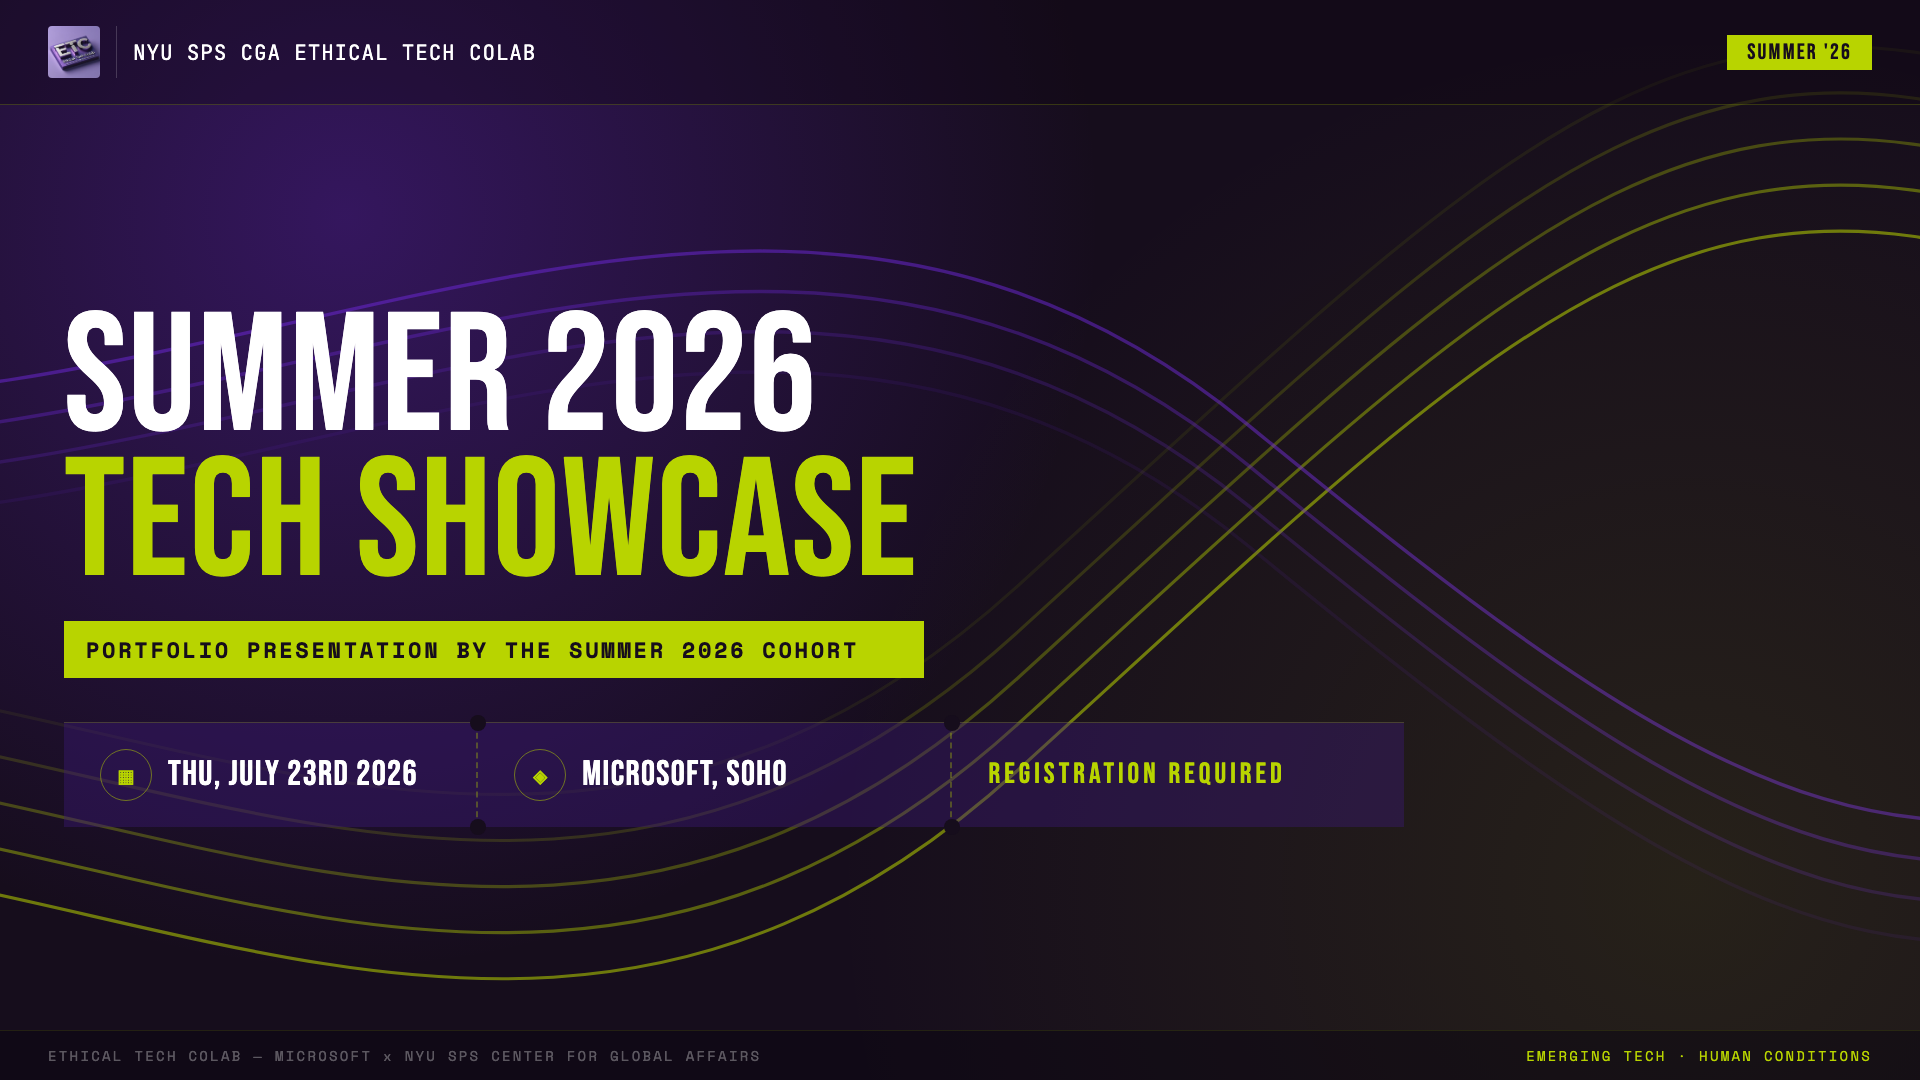
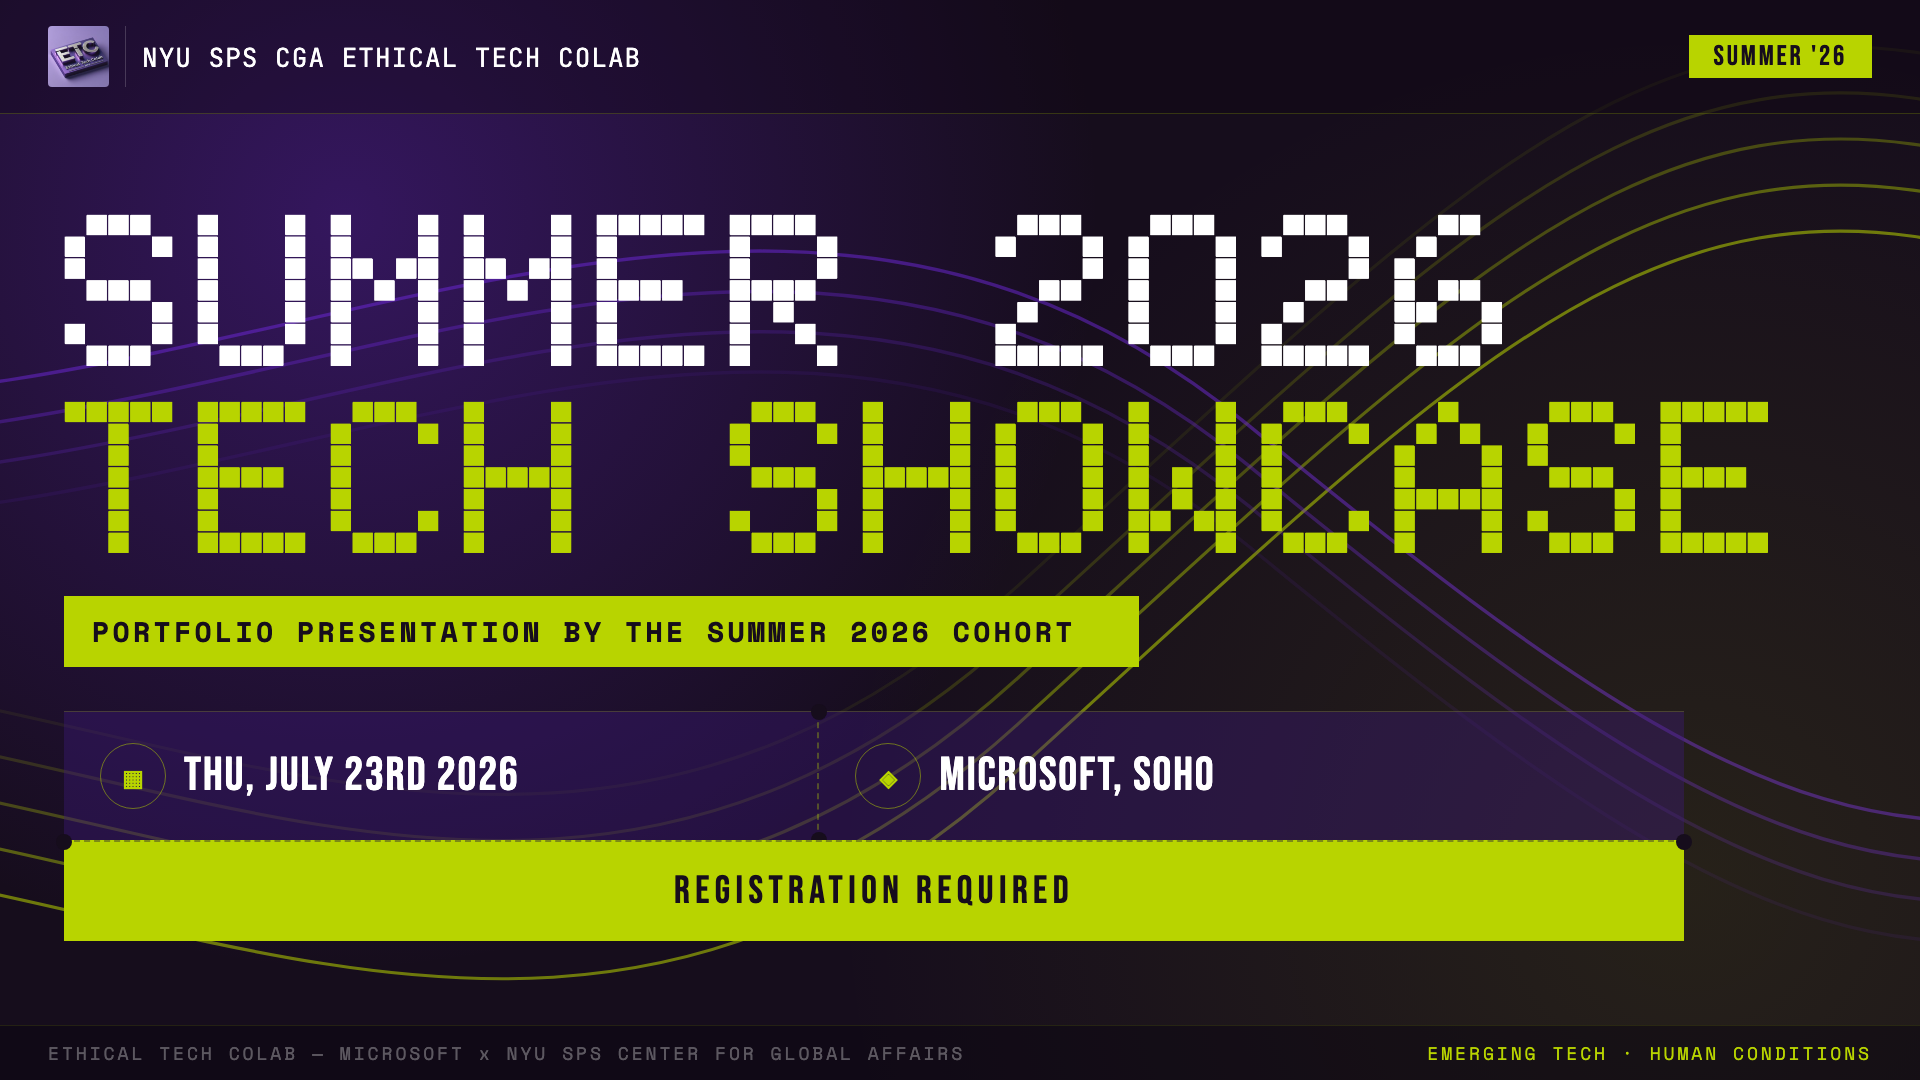
Split ticket stub into details/registration blocks, port Partiful design to LinkedIn
- Larger text, Doto bold dot-matrix headline font, 2O26 digit swap, and a
  two-tone ticket stub (details block + lime registration block) on Partiful
- Apply the same design changes proportionally to LinkedIn-Graphics.html
- Regenerate both PNG exports to match

diff --git a/LinkedIn-Graphics.html b/LinkedIn-Graphics.html
@@ -10,6 +10,11 @@
   font-weight:400;font-style:normal;font-display:swap;
 }
 @font-face{
+  font-family:'Doto Local';
[1 lines of base64/hex data omitted]
+  font-weight:400 900;font-style:normal;font-display:swap;
+}
+@font-face{
   font-family:'JetBrains Mono Local';
[1 lines of base64/hex data omitted]
   font-weight:400;font-style:normal;font-display:swap;
@@ -82,13 +87,13 @@ html,body{
   flex-shrink:0;
 }
 .brand{display:flex;align-items:center;gap:16px;}
-.brand img{height:52px;width:auto;border-radius:4px;display:block;}
+.brand img{height:61px;width:auto;border-radius:4px;display:block;}
 .brand-div{width:1px;align-self:stretch;background:rgba(255,255,255,0.18);}
-.brand-tag{font-size:21px;letter-spacing:0.04em;color:var(--lime);white-space:nowrap;}
+.brand-tag{font-size:26px;letter-spacing:0.04em;color:var(--lime);white-space:nowrap;}
 .season{
   background:var(--lime);color:var(--bg3);
-  font-family:'Bebas Neue Local',sans-serif;font-size:22px;
-  letter-spacing:0.1em;padding:4px 20px;flex-shrink:0;
+  font-family:'Bebas Neue Local',sans-serif;font-size:28px;
+  letter-spacing:0.1em;padding:5px 25px;flex-shrink:0;
 }
 
 /* ── HERO ── */
@@ -98,8 +103,9 @@ html,body{
   padding:0 64px;
 }
 .headline{
-  font-family:'Bebas Neue Local',sans-serif;
-  font-size:168px;
+  font-family:'Doto Local',sans-serif;
+  font-weight:900;
+  font-size:218px;
   line-height:0.86;letter-spacing:0.01em;
 }
 .headline .accent{color:var(--lime);}
@@ -107,24 +113,29 @@ html,body{
   display:inline-block;
   background:var(--lime);color:var(--bg3);
   font-family:'Space Mono Local',monospace;font-weight:700;
-  font-size:22px;
+  font-size:28px;
   letter-spacing:0.12em;text-transform:uppercase;
-  padding:12px 22px;
-  max-width:860px;
+  padding:15px 28px;
+  max-width:1075px;
 }
 
-/* ── TICKET STUB ── */
-.stub{
+/* ── STUB WRAP (details + ticket, flush together) ── */
+.stub-wrap{
+  display:flex;flex-direction:column;
+  max-width:1620px;
+  margin-top:20px;
+}
+
+/* ── DETAILS BLOCK (date + location) ── */
+.details{
   position:relative;z-index:3;flex-shrink:0;
-  display:grid;grid-template-columns:1fr 1.15fr 1.1fr;
+  display:grid;grid-template-columns:1fr 1.15fr;
   background:var(--stub);
   border-top:1px solid var(--hair);
-  margin-top:20px;
-  max-width:1340px;
 }
 .stub-seg{
-  display:flex;align-items:center;gap:16px;
-  padding:26px 36px;
+  display:flex;align-items:center;gap:18px;
+  padding:31px 36px;
   position:relative;
 }
 .stub-seg + .stub-seg{border-left:2px dashed rgba(184,212,0,0.32);}
@@ -136,28 +147,36 @@ html,body{
 .stub-seg + .stub-seg::before{top:-8px;}
 .stub-seg + .stub-seg::after{bottom:-8px;}
 .stub-icon{
-  width:52px;height:52px;flex-shrink:0;
+  width:66px;height:66px;flex-shrink:0;
   border:1px solid rgba(184,212,0,0.5);border-radius:50%;
   display:flex;align-items:center;justify-content:center;
-  font-size:24px;color:var(--lime);
+  font-size:30px;color:var(--lime);
 }
 .stub-main{
   font-family:'Bebas Neue Local',sans-serif;
-  font-size:35px;letter-spacing:0.04em;color:var(--white);
+  font-size:47px;letter-spacing:0.04em;color:var(--white);
   line-height:1.1;
 }
-.stub-sub{
-  font-size:16px;letter-spacing:0.05em;color:var(--ink);
-  margin-top:4px;
+
+/* ── TICKET STUB (registration) ── */
+.ticket{
+  position:relative;z-index:3;flex-shrink:0;
+  display:flex;align-items:center;justify-content:center;
+  background:var(--lime);
+  padding:26px 36px;
+  border-top:2px dashed rgba(36,26,58,0.4);
 }
-.stub-admit{
-  flex-direction:column;align-items:flex-start;justify-content:center;gap:3px;
+.ticket::before,
+.ticket::after{
+  content:'';position:absolute;top:-8px;width:16px;height:16px;border-radius:50%;
+  background:var(--bg3);
 }
+.ticket::before{left:-8px;}
+.ticket::after{right:-8px;}
 .admit-badge{
-  font-family:'Bebas Neue Local',sans-serif;font-size:29px;
-  color:var(--lime);letter-spacing:0.14em;white-space:nowrap;
+  font-family:'Bebas Neue Local',sans-serif;font-size:39px;
+  color:var(--bg3);letter-spacing:0.14em;white-space:nowrap;
 }
-.admit-sub{font-size:14px;letter-spacing:0.16em;color:var(--ink-dim);text-transform:uppercase;}
 
 /* ── FOOTER ── */
 .foot{
@@ -167,7 +186,7 @@ html,body{
   border-top:1px solid rgba(184,212,0,0.12);
   background:rgba(13,7,18,0.55);
 }
-.foot span{font-size:14px;letter-spacing:0.16em;color:rgba(255,255,255,0.32);}
+.foot span{font-size:18px;letter-spacing:0.16em;color:rgba(255,255,255,0.32);}
 .foot .hi{color:var(--lime);}
 </style>
 </head>
@@ -202,23 +221,25 @@ html,body{
   </div>
 
   <div class="hero">
-    <div class="headline">SUMMER 2026<br><span class="accent">TECH SHOWCASE</span></div>
+    <div class="headline">SUMMER 2O26<br><span class="accent">TECH SHOWCASE</span></div>
     <div class="tag-highlight">Portfolio Presentation by the Summer 2026 Cohort</div>
 
-    <div class="stub">
-      <div class="stub-seg">
-        <div class="stub-icon">&#9638;</div>
-        <div>
-          <div class="stub-main">THU, JULY 23RD 2026</div>
+    <div class="stub-wrap">
+      <div class="details">
+        <div class="stub-seg">
+          <div class="stub-icon">&#9638;</div>
+          <div>
+            <div class="stub-main">THU, JULY 23RD 2026</div>
+          </div>
+        </div>
+        <div class="stub-seg">
+          <div class="stub-icon">&#9672;</div>
+          <div>
+            <div class="stub-main">MICROSOFT, SOHO</div>
+          </div>
         </div>
       </div>
-      <div class="stub-seg">
-        <div class="stub-icon">&#9672;</div>
-        <div>
-          <div class="stub-main">MICROSOFT, SOHO</div>
-        </div>
-      </div>
-      <div class="stub-seg stub-admit">
+      <div class="ticket">
         <div class="admit-badge">REGISTRATION REQUIRED</div>
       </div>
     </div>

diff --git a/Partiful-Graphics.html b/Partiful-Graphics.html
@@ -100,16 +100,21 @@ html,body{
   max-width:700px;
 }
 
-/* ── TICKET STUB (vertical stack) ── */
-.stub{
+/* ── STUB WRAP (details + ticket, flush together) ── */
+.stub-wrap{
+  display:flex;flex-direction:column;
+  width:100%;
+  max-width:1088px;
+  margin-top:16px;
+}
+
+/* ── DETAILS BLOCK (date + location) ── */
+.details{
   position:relative;z-index:3;flex-shrink:0;
   display:flex;flex-direction:column;
   background:var(--stub);
   border-top:1px solid var(--hair);
-  border-bottom:1px solid var(--hair);
-  margin-top:16px;
   width:100%;
-  max-width:1088px;
 }
 .stub-seg{
   display:flex;align-items:center;gap:16px;
@@ -135,10 +140,27 @@ html,body{
   font-size:31px;letter-spacing:0.04em;color:var(--white);
   line-height:1.1;white-space:nowrap;
 }
-.stub-admit{gap:0;}
+
+/* ── TICKET STUB (registration) ── */
+.ticket{
+  position:relative;z-index:3;flex-shrink:0;
+  display:flex;align-items:center;justify-content:center;
+  background:var(--lime);
+  width:100%;
+  max-width:1088px;
+  padding:22px 26px;
+  border-top:2px dashed rgba(36,26,58,0.4);
+}
+.ticket::before,
+.ticket::after{
+  content:'';position:absolute;top:-8px;width:16px;height:16px;border-radius:50%;
+  background:var(--bg3);
+}
+.ticket::before{left:-8px;}
+.ticket::after{right:-8px;}
 .admit-badge{
   font-family:'Bebas Neue Local',sans-serif;font-size:28px;
-  color:var(--lime);letter-spacing:0.12em;white-space:nowrap;
+  color:var(--bg3);letter-spacing:0.12em;white-space:nowrap;
 }
 
 /* ── CORNER MARKS ── */
@@ -188,16 +210,18 @@ html,body{
     <div class="headline">SUMMER 2O26<br><span class="accent">TECH SHOWCASE</span></div>
     <div class="tag-highlight">Portfolio Presentation by the Summer 2026 Cohort</div>
 
-    <div class="stub">
-      <div class="stub-seg">
-        <div class="stub-icon">&#9638;</div>
-        <div class="stub-main">THU, JULY 23RD 2026</div>
+    <div class="stub-wrap">
+      <div class="details">
+        <div class="stub-seg">
+          <div class="stub-icon">&#9638;</div>
+          <div class="stub-main">THU, JULY 23RD 2026</div>
+        </div>
+        <div class="stub-seg">
+          <div class="stub-icon">&#9672;</div>
+          <div class="stub-main">MICROSOFT, SOHO</div>
+        </div>
       </div>
-      <div class="stub-seg">
-        <div class="stub-icon">&#9672;</div>
-        <div class="stub-main">MICROSOFT, SOHO</div>
-      </div>
-      <div class="stub-seg stub-admit">
+      <div class="ticket">
         <div class="admit-badge">REGISTRATION REQUIRED</div>
       </div>
     </div>